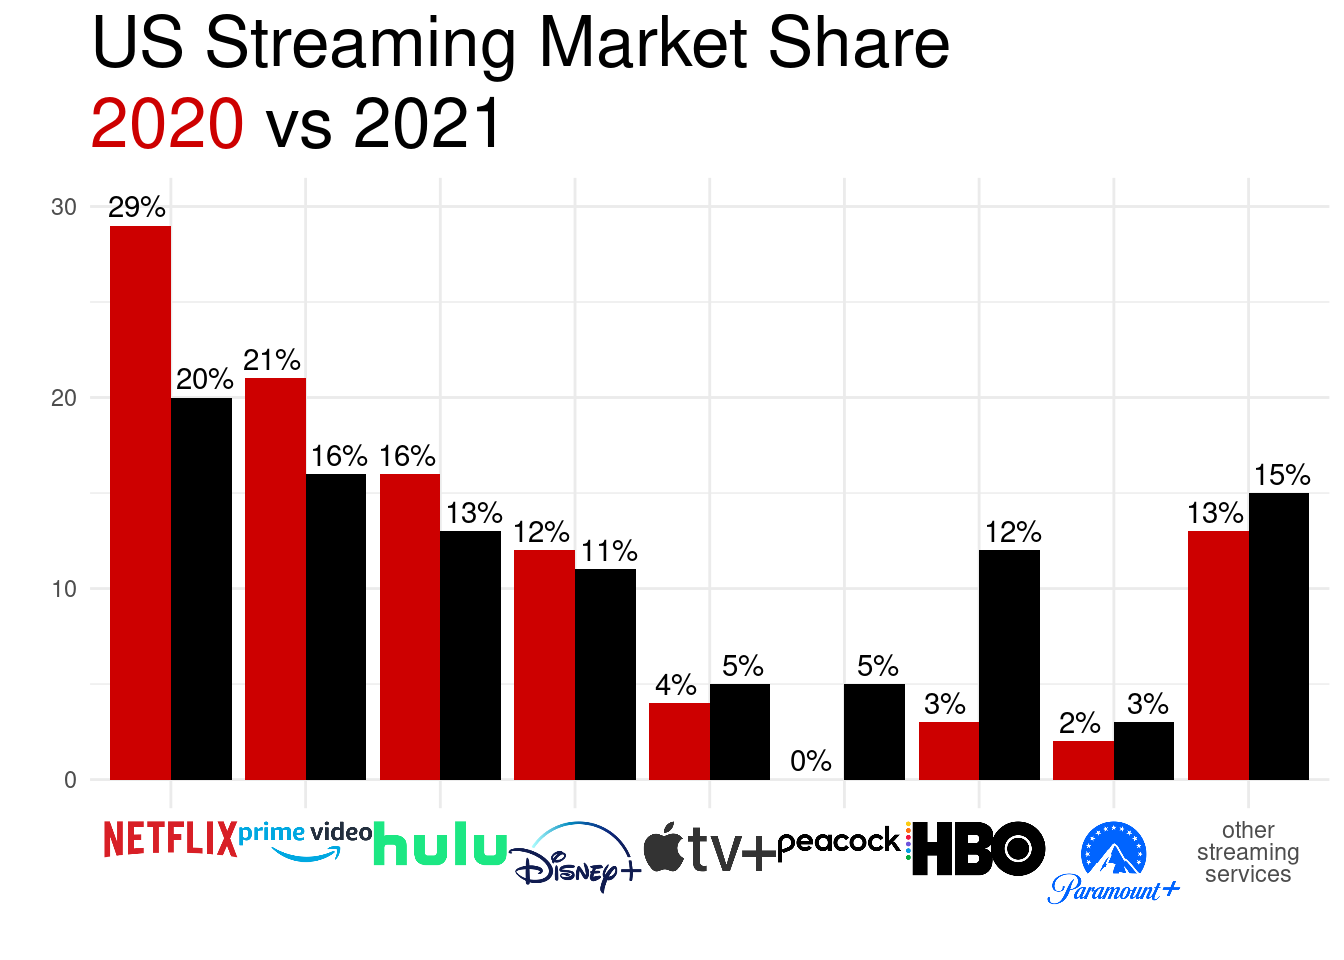
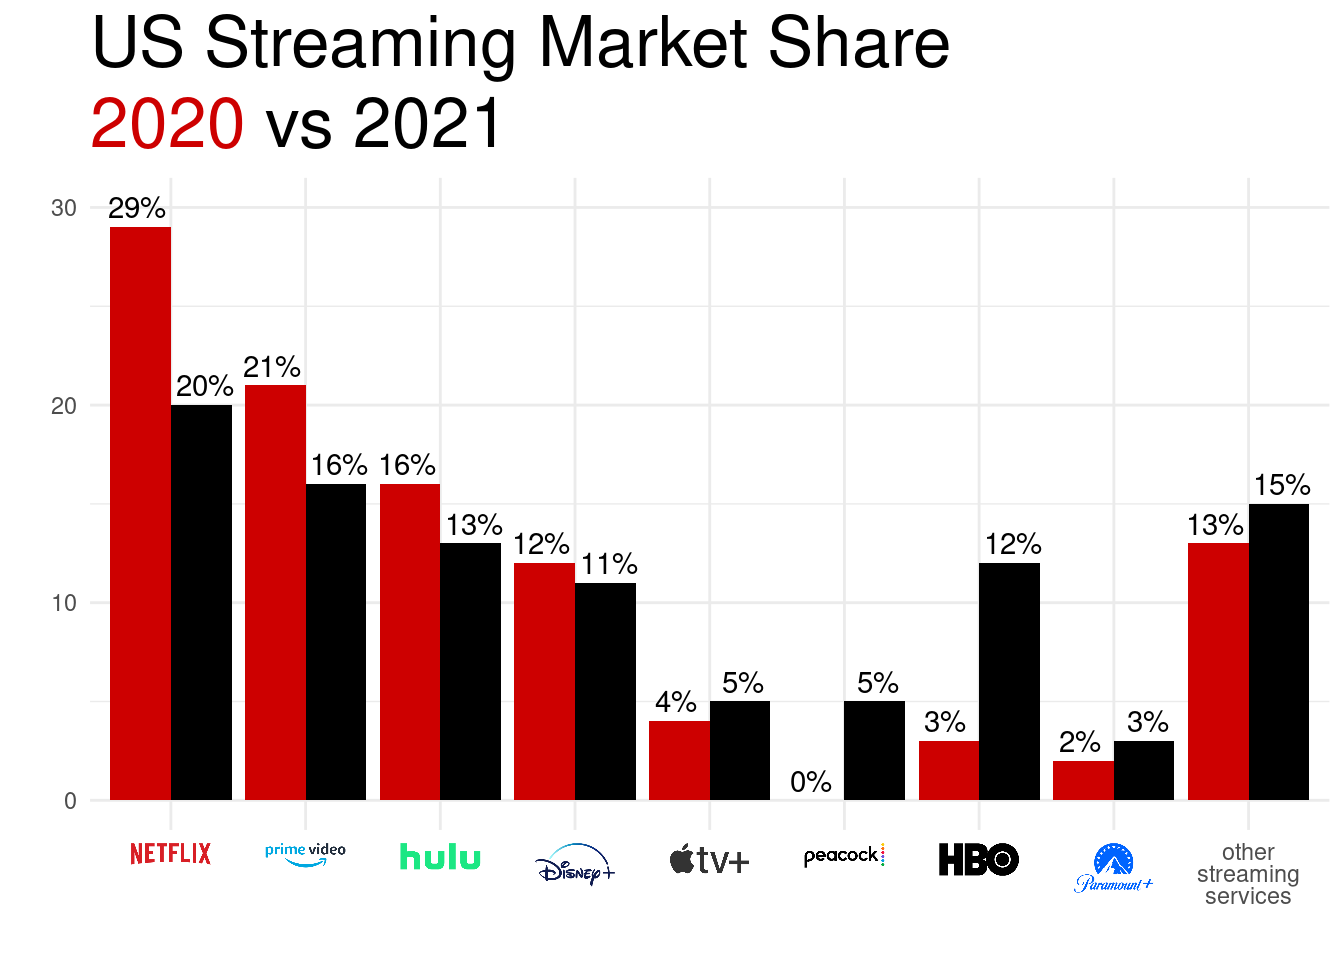
resizing

diff --git a/content/post/2021-04-25-improving-a-visualization/index.html b/content/post/2021-04-25-improving-a-visualization/index.html
@@ -53,7 +53,7 @@ p &lt;- ggplot(streaming_long) +
   theme_minimal() + 
   theme(plot.title = element_text(size = 26), plot.subtitle = element_text(size = 26))
 p</code></pre>
-<p><img src="staticunnamed-chunk-2-1.png" width="672" />
+<p><img src="staticunnamed-chunk-2-1.png" width="100%" />
 That’s fairly close. For the logos I’ll use the versions on Wikipedia</p>
 <pre class="r"><code>logos &lt;- tibble::tribble(
   ~service, ~logo,
@@ -67,19 +67,19 @@ That’s fairly close. For the logos I’ll use the versions on Wikipedia</p>
   &quot;paramount&quot;, &quot;https://upload.wikimedia.org/wikipedia/commons/thumb/a/a5/Paramount_Plus.svg/440px-Paramount_Plus.svg.png&quot;,
   &quot;other&quot;, &quot;other&quot;
 )
-labels &lt;- setNames(paste0(&quot;&lt;img src=&#39;&quot;, logos$logo, &quot;&#39; width=&#39;50&#39; /&gt;&quot;), logos$service)
+labels &lt;- setNames(paste0(&quot;&lt;img src=&#39;&quot;, logos$logo, &quot;&#39; width=&#39;30&#39; /&gt;&quot;), logos$service)
 labels[[&quot;other&quot;]] &lt;- &quot;other&lt;br /&gt;streaming&lt;br /&gt;services&quot;</code></pre>
 <p>and leverage <code>{ggtext}</code> to set these as the axis labels</p>
 <pre class="r"><code>p &lt;- p + scale_x_discrete(labels = labels) + theme(axis.text.x = ggtext::element_markdown())
 p</code></pre>
-<p><img src="staticunnamed-chunk-4-1.png" width="672" />
+<p><img src="staticunnamed-chunk-4-1.png" width="100%" />
 My first thought on seeing this plot with the legend was that <code>{ggtext}</code> makes this a lot easier to read by using the
 title <em>as</em> the legend</p>
 <pre class="r"><code>p &lt;- p + 
   labs(subtitle = &quot;&lt;span style = &#39;color: red3;&#39;&gt;2020&lt;/span&gt; vs 2021&quot;) + 
   theme(plot.subtitle = ggtext::element_markdown(), legend.position = &quot;none&quot;)
 p</code></pre>
-<p><img src="staticunnamed-chunk-5-1.png" width="672" />
+<p><img src="staticunnamed-chunk-5-1.png" width="100%" />
 Next, this should possibly be a horizontal bar plot so that the labels read nicely</p>
 <pre class="r"><code>p + 
   coord_flip() + 
@@ -87,7 +87,7 @@ Next, this should possibly be a horizontal bar plot so that the labels read nice
   theme(axis.text.y = ggtext::element_markdown())</code></pre>
 <pre class="bg-info text-info"><code>## Scale for &#39;x&#39; is already present. Adding another scale for &#39;x&#39;, which will
 ## replace the existing scale.</code></pre>
-<p><img src="staticunnamed-chunk-6-1.png" width="672" />
+<p><img src="staticunnamed-chunk-6-1.png" width="100%" />
 The ‘insight’ which this is trying to display is how each service’s share has grown
 or shrunk. It wasn’t obvious to me that the original was ordered by that - decreases shown first, then increases (in some order, I’m still
 not sure what). What might make for a better plot to center it on the 2020 share and show the growth (positive or negative)</p>
@@ -101,7 +101,7 @@ p &lt;- ggplot(streaming_delta) +
   coord_flip() +
   theme(axis.text.y = ggtext::element_markdown()) 
 p</code></pre>
-<p><img src="staticunnamed-chunk-7-1.png" width="672" />
+<p><img src="staticunnamed-chunk-7-1.png" width="100%" />
 Each comparison in the original required two bars, and the separation between the services didn’t make that easy to read. In this version,
 the absolute scale is lost (services starting high and decreasing aren’t distinct from those starting low and gaining slightly) so what about
 using a barbell plot to show the separation between the two values rather than relying on comparing two bars?</p>
@@ -126,7 +126,9 @@ using a barbell plot to show the separation between the two values rather than r
 ##   grobY.absoluteGrob      ggplot2</code></pre>
 <pre class="r"><code>p</code></pre>
 <pre class="bg-warning text-warning"><code>## Warning: Use of `streaming$service` is discouraged. Use `service` instead.</code></pre>
-<p><img src="staticunnamed-chunk-8-1.png" width="672" /></p>
+<p><img src="staticunnamed-chunk-8-1.png" width="100%" />
+I think these last two communicate more than the original. It’s always amazing how easy it is to bring this data into R and
+start playing with different presentations.</p>
 <br />
 <details>
 <summary>
